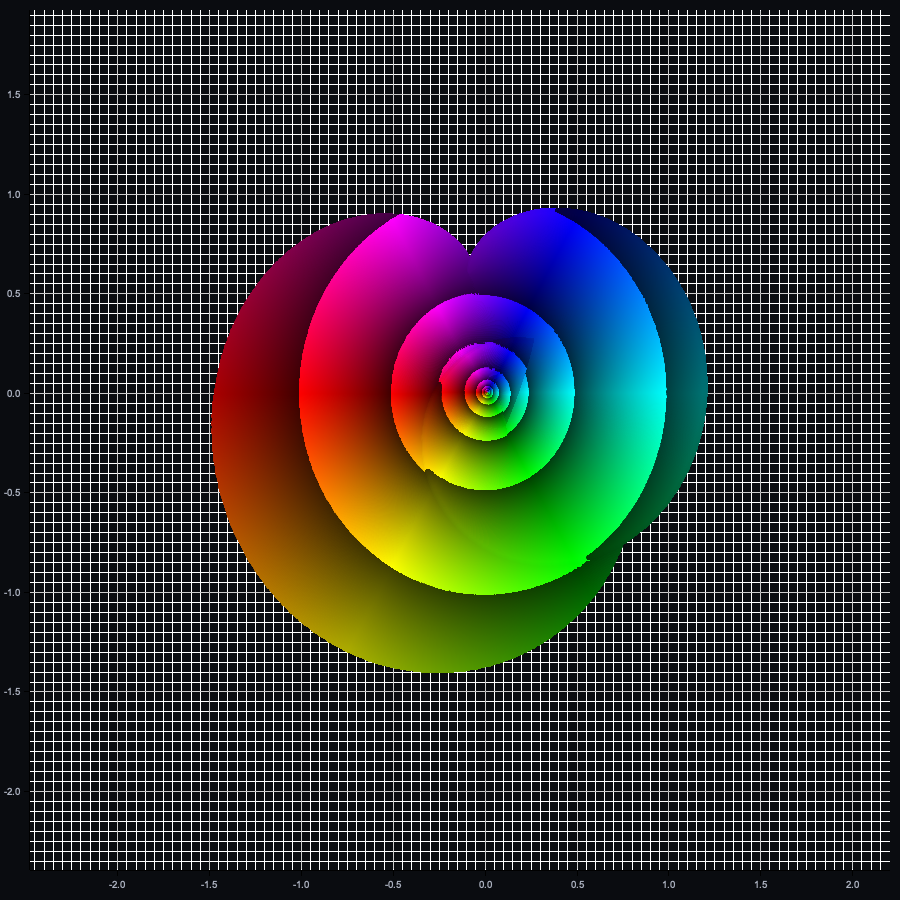
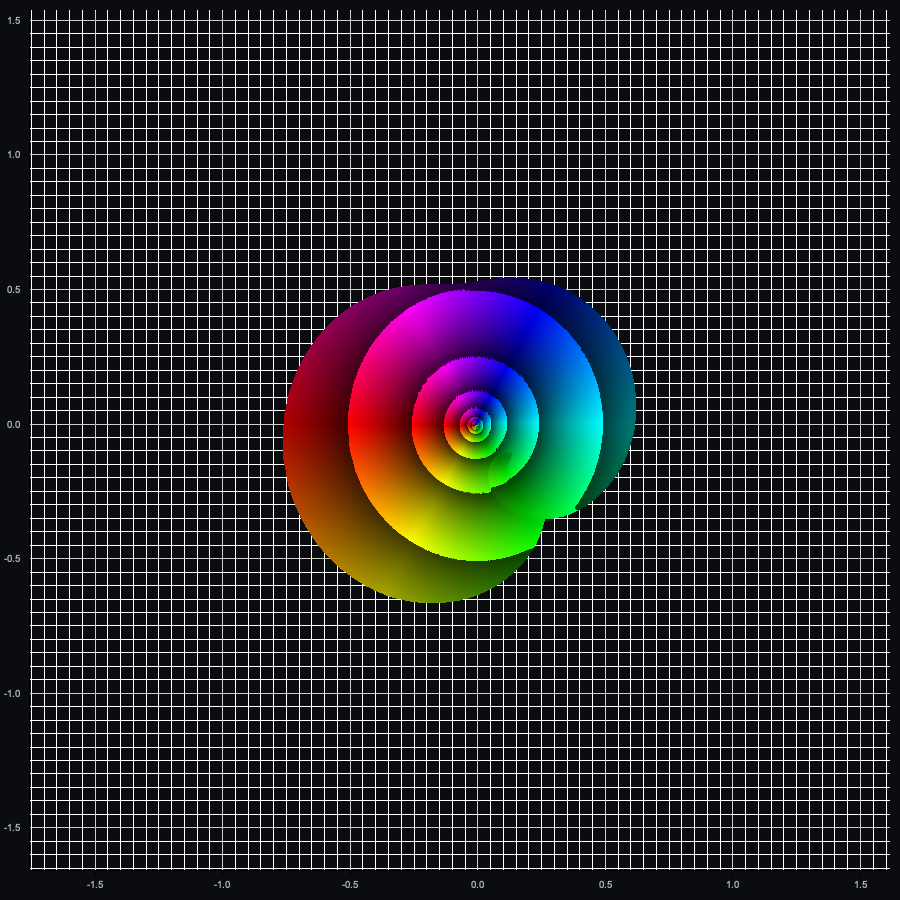
added random words to UI

diff --git a/src/ui.rs b/src/ui.rs
@@ -13,7 +13,7 @@ use std::time::Instant;
 
 use crate::{covering_grids::{covering_grid_bitmap, unit_disk_n}, dyadic::Dyadic};
 // NEW: bring the sweep into scope
-use crate::evaluation::approximate_all_words;
+use crate::evaluation::{approximate_all_words, calculate_random};
 use crate::holomorphic::{BoundingSequence, ComplexFunction, ExpansionCoefficients};
 use crate::plot::plot_set;
 use crate::psi::{m_vec, psi_infinity, t_vector};
@@ -64,19 +64,20 @@ fn common_css() -> &'static str {
 
 // Navigation html code
 fn nav_html() -> String {
-    format!(
-        r#"
-    <div class="nav">
-      <div class="nav-inner">
-        <a class="brand" href="/">Landau Explorer</a>
-        <div class="links">
-          <a href="/">Home</a>
-          <a href="/intro">Introduction</a>
-        </div>
+  format!(
+      r#"
+  <div class="nav">
+    <div class="nav-inner">
+      <a class="brand" href="/">Landau Explorer</a>
+      <div class="links">
+        <a href="/">Home</a>
+        <a href="/intro">Introduction</a>
+        <a href="/random">Random words</a>
       </div>
     </div>
-    "#
-    )
+  </div>
+  "#
+  )
 }
 
 fn escape_html(s: &str) -> String {
@@ -148,6 +149,13 @@ struct PlotForm {
     acc_n: Option<i32>, 
 }
 
+#[derive(Deserialize)]
+struct RandomForm {
+  length: usize,   // word length
+  number: usize,   // how many random words to try
+  acc_n: i32,      // disk accuracy n (step = 2^{-n})
+}
+
 const DEFAULT_PLOT_ACC_N: i32 = 7;   // for /plot (step = 2^-n)
 const DEFAULT_CALC_ALL_LEN: usize = 3;
 const DEFAULT_CALC_ALL_STEP: i32 = 1;
@@ -177,6 +185,33 @@ fn parse_word(input: &str) -> Vec<u8> {
             .filter_map(|c| c.to_digit(10).map(|d| d as u8))
             .collect()
     }
+}
+async fn random_page() -> Html<String> {
+  let inner = r#"
+  <div class="card">
+    <h1>Random words</h1>
+    <p>Generate a batch of random words, evaluate λ<sub>f</sub> via EDT, and plot the best one.</p>
+
+    <form method="post" action="/random-run">
+      <div class="row">
+        <div>
+          <label>Word length</label>
+          <input type="number" name="length" min="1" max="1000" value="3" required />
+        </div>
+        <div>
+          <label>Number of words</label>
+          <input type="number" name="number" min="1" max="10000000" value="100" required />
+        </div>
+        <div>
+          <label>Disk accuracy n (step = 2<sup>−n</sup>)</label>
+          <input type="number" name="acc_n" min="6" max="18" value="7" required />
+        </div>
+      </div>
+      <p><button type="submit">Run random search</button></p>
+    </form>
+  </div>
+  "#;
+  Html(page_html("Landau Explorer — Random", inner))
 }
 
 async fn home() -> Html<String> {
@@ -272,7 +307,7 @@ async fn plot(State(state): State<SharedState>, Form(form): Form<PlotForm>) -> i
 
         // Plot to temp path
         let tmpdir = tempfile::tempdir().map_err(|e| e.to_string())?;
-        let path = tmpdir.path().join("plot.png");
+        let path = tmpdir.path().join("random_plot.png");
         plot_set(&img, path.to_str().ok_or("invalid temp path")?)
             .map_err(|e| format!("plot_set failed: {e}"))?;
 
@@ -393,7 +428,6 @@ async fn calc_all(
     let approx = approximate_all_words(length, disk_decrease, m_seq).await;
 
     // After the sweep re-plots the best word, try to read the PNG it produced
-    // If calculate_for_word_updated writes to a known "plot.png" this will pick it up
     let png_bytes = std::fs::read("test_image.png");
     match png_bytes {
         Ok(bytes) => {
@@ -417,7 +451,7 @@ async fn calc_all(
         }
         Err(e) => (
             StatusCode::INTERNAL_SERVER_ERROR,
-            format!("Sweep done (best ≈ {approx:.12}), but couldn't read plot.png: {e}"),
+            format!("Sweep done (best ≈ {approx:.12}), but couldn't read random_plot.png: {e}"),
         )
             .into_response(),
     }
@@ -443,16 +477,69 @@ pub async fn run_server() -> anyhow::Result<()> {
     let state: SharedState = Arc::new(AppState::default());
 
     let app = Router::new()
-        .route("/", get(home))
-        .route("/intro", get(intro))
-        .route("/plot", post(plot))
-        .route("/calc-all", post(calc_all))
-        .route("/img", get(img))
-        .with_state(state);
+      .route("/", get(home))
+      .route("/intro", get(intro))
+      .route("/random", get(random_page))          // ← NEW
+      .route("/random-run", post(random_run))      // ← NEW
+      .route("/plot", post(plot))
+      .route("/calc-all", post(calc_all))
+      .route("/img", get(img))
+      .with_state(state);
 
     let addr = "127.0.0.1:3000";
     let listener = TcpListener::bind(addr).await?;
     println!("Open http://{addr}/");
     axum::serve(listener, app).await?;
     Ok(())
+}
+
+async fn random_run(
+  State(state): State<SharedState>,
+  Form(form): Form<RandomForm>,
+) -> impl IntoResponse {
+  let t0 = Instant::now();
+
+  // Match your plotting page’s convention:
+  // epsilon = 2^(-acc_n), delta = epsilon * 2^-2 = 2^(-(acc_n+2))
+  let acc_n = form.acc_n.clamp(3, 18);
+  let delta = Dyadic::new(1, -(acc_n + 2));
+
+  // This will now also PLOT the best image to "random_plot.png" (see evaluation::calculate_random below)
+  let (best_word, best_l) = calculate_random(form.number, form.length as i32, delta, -acc_n).await;
+
+  // Load that image into in-memory PNG for /img
+  match std::fs::read("random_plot.png") {
+      Ok(bytes) => {
+          *state.png.lock().unwrap() = bytes;
+
+          let elapsed_ms = t0.elapsed().as_millis() as u128;
+          let best_display = format!("{:?}", best_word);
+
+          let inner = format!(r#"
+          <div class="card">
+            <h1>Random words — result</h1>
+            <p><b>Word length:</b> {length}<br/>
+               <b>Number of words:</b> {number}<br/>
+               <b>Accuracy:</b> n = {acc_n} (step = 2<sup>−{acc_n}</sup>)<br/>
+               <b>Best word:</b> {best_display}<br/>
+               <b>Best approximation:</b> {best_l:.12}<br/>
+               <b>Time:</b> {elapsed_ms} ms
+            </p>
+            <figure>
+              <img alt="plot" src="/img" />
+              <figcaption>Image of D<sub>1</sub> for the best random word.</figcaption>
+            </figure>
+          </div>
+          "#,
+          length=form.length, number=form.number, acc_n=acc_n,
+          best_display=escape_html(&best_display),
+          best_l=best_l, elapsed_ms=elapsed_ms);
+
+          Html(page_html("Landau Explorer — Random result", &inner)).into_response()
+      }
+      Err(e) => (
+          StatusCode::INTERNAL_SERVER_ERROR,
+          format!("Random search finished (best ≈ {best_l:.12}), but couldn't read random_plot.png: {e}"),
+      ).into_response(),
+  }
 }

diff --git a/src/evaluation.rs b/src/evaluation.rs
@@ -18,64 +18,89 @@ pub async fn calculate_random(
     number: usize,
     word_length: i32,
     delta: Dyadic,
-    disk_accuracy : i32,
+    disk_accuracy: i32,
 ) -> (Vec<u8>, f64) {
-    let epsilon = delta * Dyadic::new(1, 2) ;
-    let m_seq = vec![
+    // δ = delta (grid step); ε must be 4δ in your pipeline
+    let epsilon = (delta * Dyadic::new(1, 2)).reduce(); // == delta * 4
+
+    // Shared, read-only inputs
+    let m_seq = Arc::new(vec![
         Dyadic::new(1, -1),
         Dyadic::new(1, -1),
         Dyadic::new(1, -2),
         Dyadic::new(1, -3),
         Dyadic::new(1, -3),
-    ];
-    let m_seq1  = Arc::new(m_seq);
-    let t_seq = Arc::new(t_vector(1000));
-    let domain = Arc::new(unit_disk_n(disk_accuracy));
-    let concurrency = num_cpus::get().max(1);
+    ]);
+    let t_seq   = Arc::new(t_vector(1000));
+    let domain  = Arc::new(unit_disk_n(disk_accuracy));
 
+    // Bound in-flight jobs to #logical cores (good default for CPU-bound work)
+    let parallelism = std::thread::available_parallelism()
+        .map(|n| n.get())
+        .unwrap_or(4);
+
+    // Kick off N trials; each trial runs on a blocking worker thread.
     let mut results = stream::iter(0..number)
         .map(|_| {
             let domain = Arc::clone(&domain);
-            let m_seq  = Arc::clone(&m_seq1);
+            let m_seq  = Arc::clone(&m_seq);
             let t_seq  = Arc::clone(&t_seq);
-
-            // Heavy CPU work => spawn_blocking keeps the async scheduler happy
             tokio::task::spawn_blocking(move || {
-                // --- build a random function ---
-                let word = generate_word(word_length);
+                // 1) Random word → f
+                let word   = generate_word(word_length);
                 let coeffs = psi_infinity(&m_seq, &t_seq, &word);
-
                 let fprime = ComplexFunction::new(
                     BoundingSequence::new((*m_seq).clone()),
                     ExpansionCoefficients::new(coeffs),
                 );
                 let f = fprime.antiderivative();
 
-                // --- eval on domain ---
+                // 2) Evaluate f on domain (single-threaded inside the job)
+                // If `ComplexFunction` is Sync + Send, you can switch to Rayon here.
                 let mut img = Vec::with_capacity(domain.len());
                 for &z in domain.iter() {
                     img.push(f.eval(&z));
                 }
 
-                // --- EDT path you asked for ---
+                // 3) Build bitset bitmap at δ with ε-neighborhood and run disk-backed EDT
                 let grid_bitmap = covering_grid_bitmap(&img, epsilon, delta);
                 let l_val = landau_l_via_edt_from_bitmap(&grid_bitmap, delta);
 
                 (l_val, word)
             })
         })
-        .buffer_unordered(concurrency);
-        let mut best_l = f64::INFINITY;
-        let mut best_word: Vec<u8> = vec![];
+        .buffer_unordered(parallelism);
 
-        while let Some(res) = results.next().await {
-            let (l_val, word) = res.expect("worker panicked");
-            if l_val < best_l {
-                best_l = l_val;
-                best_word = word;
-            }
+    // Reduce to the best (min) λ over all trials
+    let mut best_l = f64::INFINITY;
+    let mut best_word: Vec<u8> = vec![];
+
+    while let Some(res) = results.next().await {
+        let (l_val, word) = res.expect("worker panicked");
+        if l_val < best_l {
+            best_l = l_val;
+            best_word = word;
         }
-        (best_word, best_l)
+    }
+
+    // Re-run the best word once more and plot (same as your original)
+    {
+        let coeffs = psi_infinity(&m_seq, &t_seq, &best_word);
+        let fprime = ComplexFunction::new(
+            BoundingSequence::new((*m_seq).clone()),
+            ExpansionCoefficients::new(coeffs),
+        );
+        let f = fprime.antiderivative();
+
+        let domain_again = unit_disk_n(disk_accuracy);
+        let mut img = Vec::with_capacity(domain_again.len());
+        for &z in &domain_again {
+            img.push(f.eval(&z));
+        }
+        let _ = plot_set(&img, "random_plot.png");
+    }
+
+    (best_word, best_l)
 }
 
 

diff --git a/README.md b/README.md
@@ -2,16 +2,15 @@
 Programiranje 2 project
 The goal of the project is to calculate the Landau constant to the best precision so far. More about the constant and the algorithm can be found in article https://lmcs.episciences.org/1189/pdf. Put shortly, the constant gives us the largest circle to fit inside the image of the unit circle with any normalised holomorphic function.
 
-So far, we have implemented Dyadic numbers for efficient computation, a psi function to represent holomorphic functions and a struct of holomorphic functions. We will then take images of the unit complex disk and calculate the area of the largest disk inside the image using an EDT algorithm. We have also implemented epsilon-covering grids that will help us calculate this. The computations will be parallelized with Tokyo to save time. 
+So far, we have implemented Dyadic numbers for efficient computation, a psi function to represent holomorphic functions and a struct of holomorphic functions. We will then take images of the unit complex disk and calculate the area of the largest disk inside the image using an EDT algorithm. We have also implemented epsilon-covering grids that will help us calculate this. The computations will be parallelized with Tokio to save time.
 
-- [x] implement psi function as a recursive function (Luka)
-- [x] implement sequence of m_i so they are bounded by some constant? (Luka)
-- [x] implement series to represent holomorphic functions in rust (Luka)
-- [x] Add 'fast power' method for ComplexDyadic (Luka)
-- [x] indefinite integral of a holomorphic function (Luka)
-- [x] struct for holomorphic functions (derivative, integral, power series representation) (Luka)
-- [x] epsilon-covering grid (Matija)
-- [x] represent psi function with complex functions
-- [x] parallelization of distance calculations
-- [ ] main loop of words
-- [ ] Dashboard (Luka)
+# Results
+The algorithm has been, for the most part, successfully implemented. We are able to run and approximate the constant up to the first step of precision, getting the result of approximately 0.5, not far from 0.5432... (actual value). We do however, run into issues. Epsilon value Lemma 6 of the article suggests quickly become really small, even at the first steps of precision. This results in grids with billions of points, which are impossible to store on RAM. We would hope to reduce those bounds so we could run more computation, but that would require theoretical progress.
+
+We also tried approaching the constant slightly independent of algorithm by plotting whole unit disks and evaluating lambda_f for many function, but sadly, results were no better than 0.8, as the m sequence suggested in the article results in images too large for words with reasonable amounts of letters. We also cannot check for all word, lets say 100, as 4^100 is beyond our computational reach regardless of efficiency.
+
+# UI Instructions
+We have created an UI experience for users. It has multiple function: in the first one, they can select their own word and disk accuracy, then evaluate the size of the largest disk inside the image of the function generated by the word.
+
+The next window offers users a chance to approximate Landau's constant on their own, selecting desired word length and precision step. 
+
